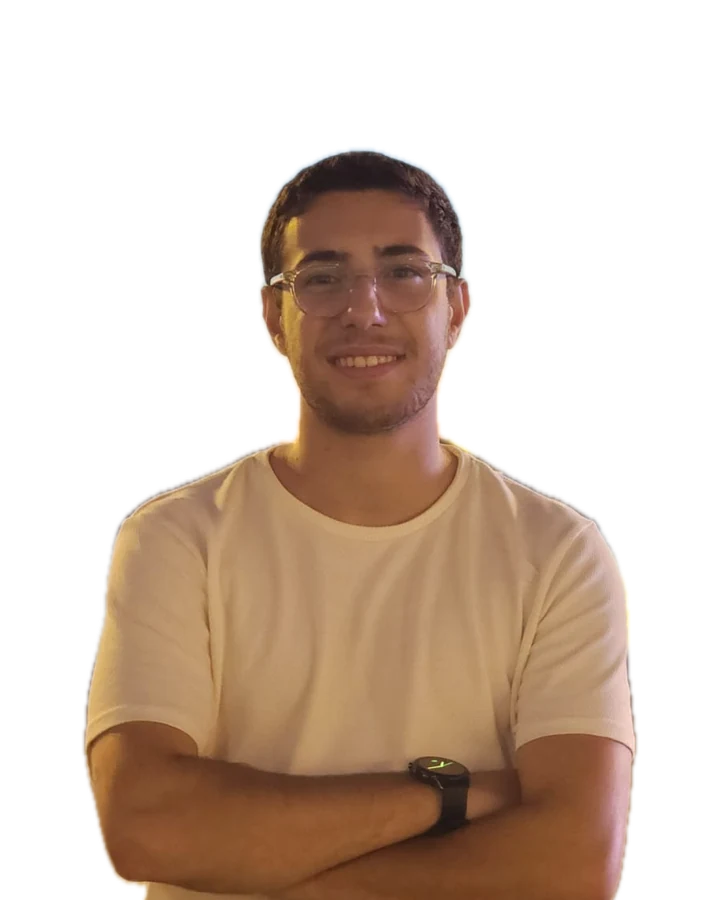
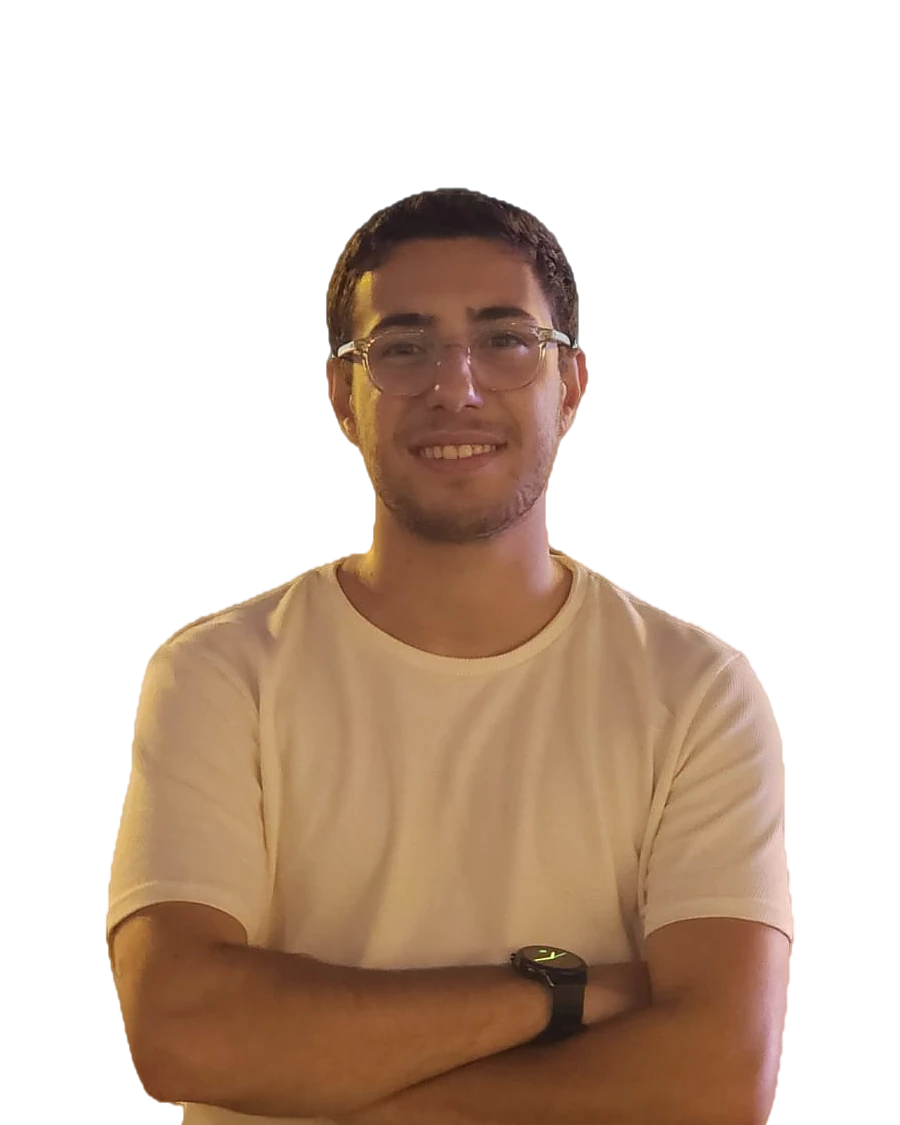
Sharper portrait: re-cut from the original, no blue halo, higher quality export

diff --git a/index.html b/index.html
@@ -98,7 +98,7 @@
         </div>
         <figure class="portrait">
           <svg class="strip portrait-clock" data-roles="im,auto,cm,sswe" data-labels="off" aria-hidden="true"></svg>
-          <img src="/jamal.webp" width="720" height="900" alt="Jamal Banna, smiling, arms crossed, in a white t-shirt" loading="lazy" decoding="async">
+          <img src="/jamal.webp" width="900" height="1125" alt="Jamal Banna, smiling, arms crossed, in a white t-shirt" loading="lazy" decoding="async">
         </figure>
         <div class="about-text">
           <div class="about-cols">
